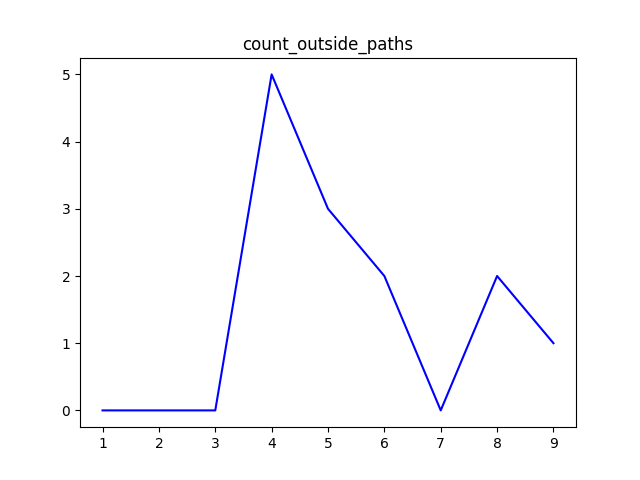
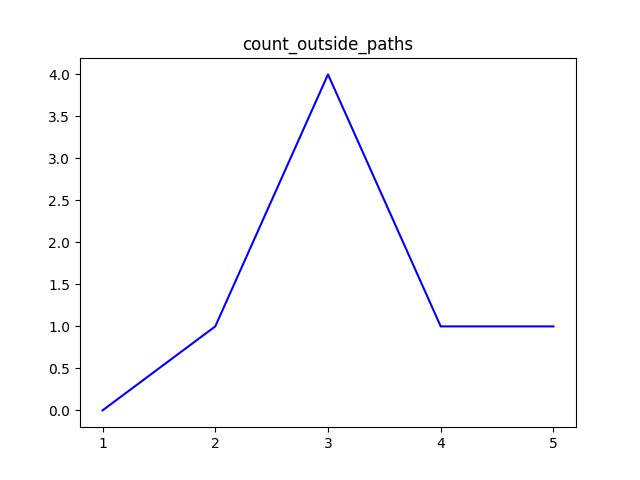
reserch update

diff --git a/limsup_with_another_check.py b/limsup_with_another_check.py
@@ -1,5 +1,6 @@
 # √2npqlog(log(n)) - |S_n - np| > 0 になる確率が1に近づくことを確認する
 # 必要なモジュールをインポートする
+from multiprocessing.util import is_abstract_socket_namespace
 import matplotlib.pyplot as plt
 
 import math
@@ -9,7 +10,7 @@ from src.simple_random_walk import simple_random_walk
 
 #  パラメータを設定する
 ## 試行回数
-n = 100000
+n = 10000
 ## サンプルパスの本数
 m = 100
 p = 1/2
@@ -26,17 +27,24 @@ ys_lower = [-limsup(i, p, q) for i in range(3, n)]
 ys_lower.insert(0, limsup(math.e, p, q))
 plt.plot(xs, ys_lower, label="ls", color="blue")
 
+# nlogn/root2のグラフをプロット
+xs = [i for i in range(1,n)]
+sqrts_upper = [math.sqrt(n*math.log(i))/math.sqrt(2) for i in range(1,n)]
+plt.plot(xs, sqrts_upper, label="rootn", color="green")
+sqrts_lower = [-math.sqrt(n*math.log(i))/math.sqrt(2) for i in range(1,n)]
+plt.plot(xs, sqrts_lower, label="rootn", color="green")
+
 # 1次元ランダムウォークの点をm回プロットする
 for _ in range(m):
     zs = [i for i in range(3, n)]
     zs.insert(0, 0)
     ws = simple_random_walk(n, p, q, values)
     ws.insert(0, 0)
-    plt.plot(zs, ws, label="s_walk", color="red",lw=0.01)
+    plt.plot(zs, ws, label="s_walk", color="red",lw=0.1)
 
 # グラフを描画する
 plt.title("limsup_with_simple_random_walk")
 plt.xticks(range(0, n+1, n//10))
 print("done :)")
-plt.savefig("img/limsup_with_simple_random_walk.png")
+plt.savefig("img/rootn_with_limsup_with_simple_random_walk.png")
 plt.show()

diff --git a/count_outside_paths.py b/count_outside_paths.py
@@ -1,17 +1,15 @@
-# √2npqlog(log(n)) - |S_n - np| > 0 になる確率が1に近づくことを確認する
+# 1次元ランダムウォークの最終値の絶対値が上極限を越える回数を求める
 # 必要なモジュールをインポートする
 import matplotlib.pyplot as plt
 
-import math
-
 from src.limsup import limsup
-from src.simple_random_walk import simple_random_walk
+from src.simple_random_walk_value import simple_random_walk_value
 
 
 #  パラメータを設定する
 ## 試行回数
-k = 10
-ns = [pow(4, i) for i in range(1, k)]
+k = 7
+ns = [pow(10, i) for i in range(1, k)]
 ## サンプルパスの本数
 m = 100
 p = 1/2
@@ -24,16 +22,15 @@ cnts = []
 for n in ns:
     cnt = 0
     for _ in range(m):
-        srw = simple_random_walk(n, p, q, values)
-        if srw[-1] >= limsup(n, p, q):
+        srw = simple_random_walk_value(n, p, q, values)
+        if abs(srw) >= limsup(n, p, q):
             cnt += 1
     cnts.append(cnt)
 
-
 # グラフを描画する
-plt.title("count_outside_paths")
+plt.title(f"count_outside_paths (k = {k})")
 plt.xticks(range(1, k))
 plt.plot(range(1, k), cnts, color="blue")
-print("done :)")
-plt.savefig("img/count_outside_paths.png")
+plt.savefig(f"img/count_outside_paths_{k}.png")
+plt.grid()
 plt.show()

diff --git a/divided_check_wanother.py b/divided_check_wanother.py
@@ -1,0 +1,44 @@
+# limsup(|S_n - np|/√2npqlog(log(n))) = 1となる確率が1に近づくことを確認する
+# 必要なモジュールをインポートする
+import matplotlib.pyplot as plt
+import numpy as np
+
+import math
+
+from src.limsup import limsup
+from src.simple_random_walk_divided2 import simple_random_walk_divided2
+
+
+#  パラメータを設定する
+## 試行回数
+n = 10000
+## サンプルパスの本数
+m = 50
+p = 1/2
+q = 1 - p
+values = [1, 0]
+
+
+
+#y=1/sqrt2のグラフをプロット
+xs = [i for i in range(n)]
+ys_upper = [1/math.sqrt(2)] * n
+plt.plot(xs, ys_upper, label="ls", color="green")
+ys_lower = [-1/math.sqrt(2)] * n
+plt.plot(xs, ys_lower, label="ls", color="green")
+
+
+# 1次元ランダムウォークの点をm回プロットする
+for _ in range(m):
+    zs = [i for i in range(3, n)]
+    zs.insert(0, 0)
+    ws = simple_random_walk_divided2(n, p, q, values)
+    ws.insert(0, 0)
+    plt.plot(zs, ws, label="s_walk", color="red",lw=0.1)
+
+# グラフを描画する
+plt.title("simple_random_walk_divided2")
+plt.xticks(range(0, n+1, n//10))
+print("done :)")
+plt.savefig("img/simple_random_walk_divided2.png")
+plt.show()

diff --git a/src/simple_random_walk_divided2.py b/src/simple_random_walk_divided2.py
@@ -1,0 +1,20 @@
+import random
+import itertools
+import math
+
+
+
+# 1次元ランダムウォークを求める
+def simple_random_walk_divided2(n: int, p: float, q: float, values: list) -> list[float]:
+    """
+    1次元ランダムウォークを求める
+    Args: n...試行回数, p, q...確率, values...実現値
+    """
+    # 確率のリストを作る
+    weights = [p, q]
+    # サンプルパスを作る
+    paths = random.choices(values, weights=weights, k=n)
+    # 添え字i = 0, 1, 2の値を削除する
+    paths = paths[3:]
+    results = [(result-i*p) / math.sqrt(i*math.log(i)) for result, i in zip(itertools.accumulate(paths), range(3,n))]
+    return results

diff --git a/src/simple_random_walk_value.py b/src/simple_random_walk_value.py
@@ -1,0 +1,18 @@
+import random
+
+
+def simple_random_walk_value(n: int, p: float, q: float, values: list) -> float:
+    """
+    1次元ランダムウォークの最終値を求める
+    Args: n...試行回数, p, q...確率, values...実現値
+    """
+    # 確率のリストを作る
+    weights = [p, q]
+    # ランダムウォークの初期値
+    result = 0
+    for i in range(n):
+        if i < 3:
+            continue
+        else:
+            result += random.choices(values,weights=weights,k=1)[0]
+    return result - n*p

diff --git a/final.py b/final.py
@@ -1,0 +1,23 @@
+import math
+import matplotlib.pyplot as plt
+from src.two_d import lx
+from src.two_d import ly
+m=100
+n=10000
+p=0.5
+q=1-p
+r=0.5
+s=1-r
+values_x = [1, 0]
+values_y = [1, 0]
+
+x = [ i for i in range(n+1)]
+for _ in range(m):
+    zs = lx(n,p,q,values_x)
+    zs.insert(0,0)
+    ws = ly(n,r,s,values_y)
+    ws.insert(0,0)
+    #print(zs)
+    #print(ws)
+    plt.plot(zs, ws,color="red",lw=0.1) #label="2d_walk", color="red",lw=0.01)
+plt.show()
